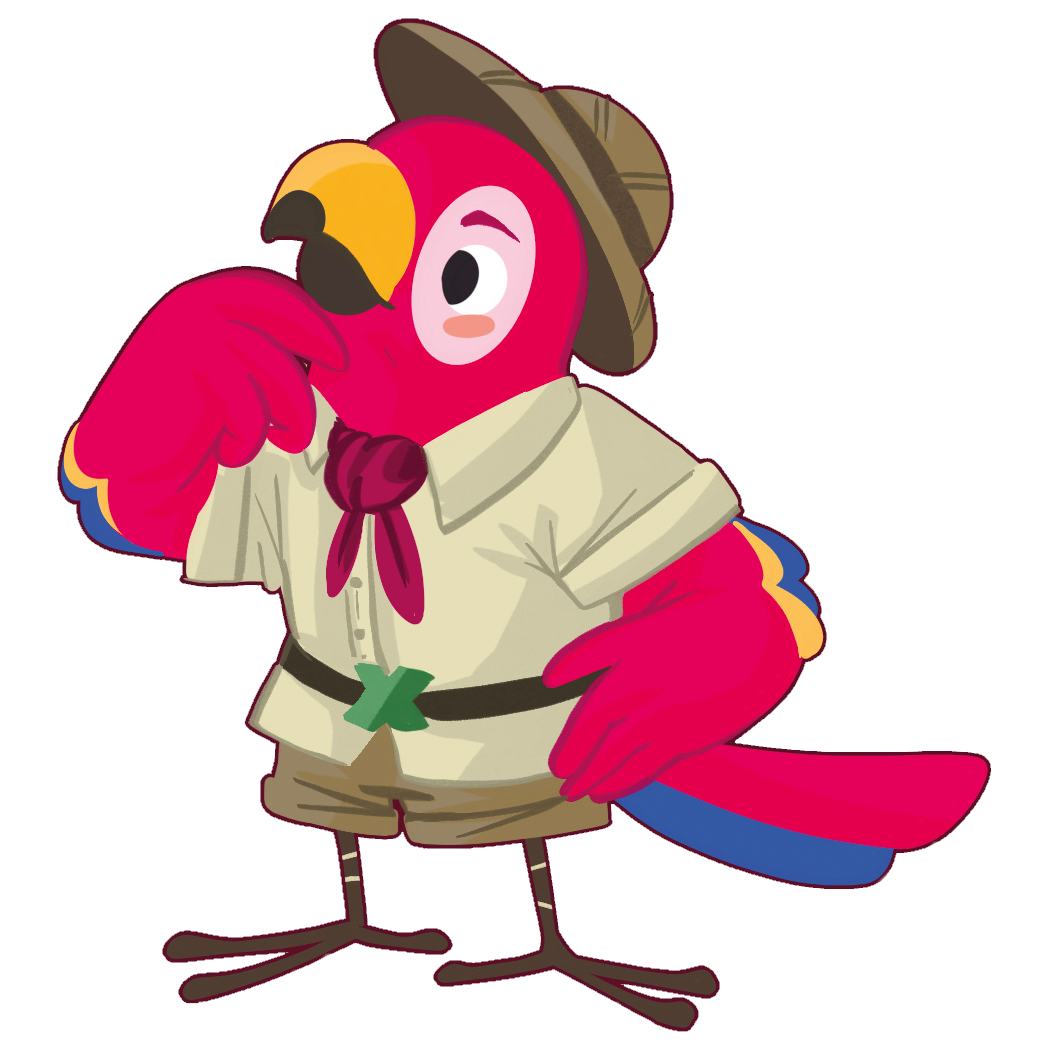
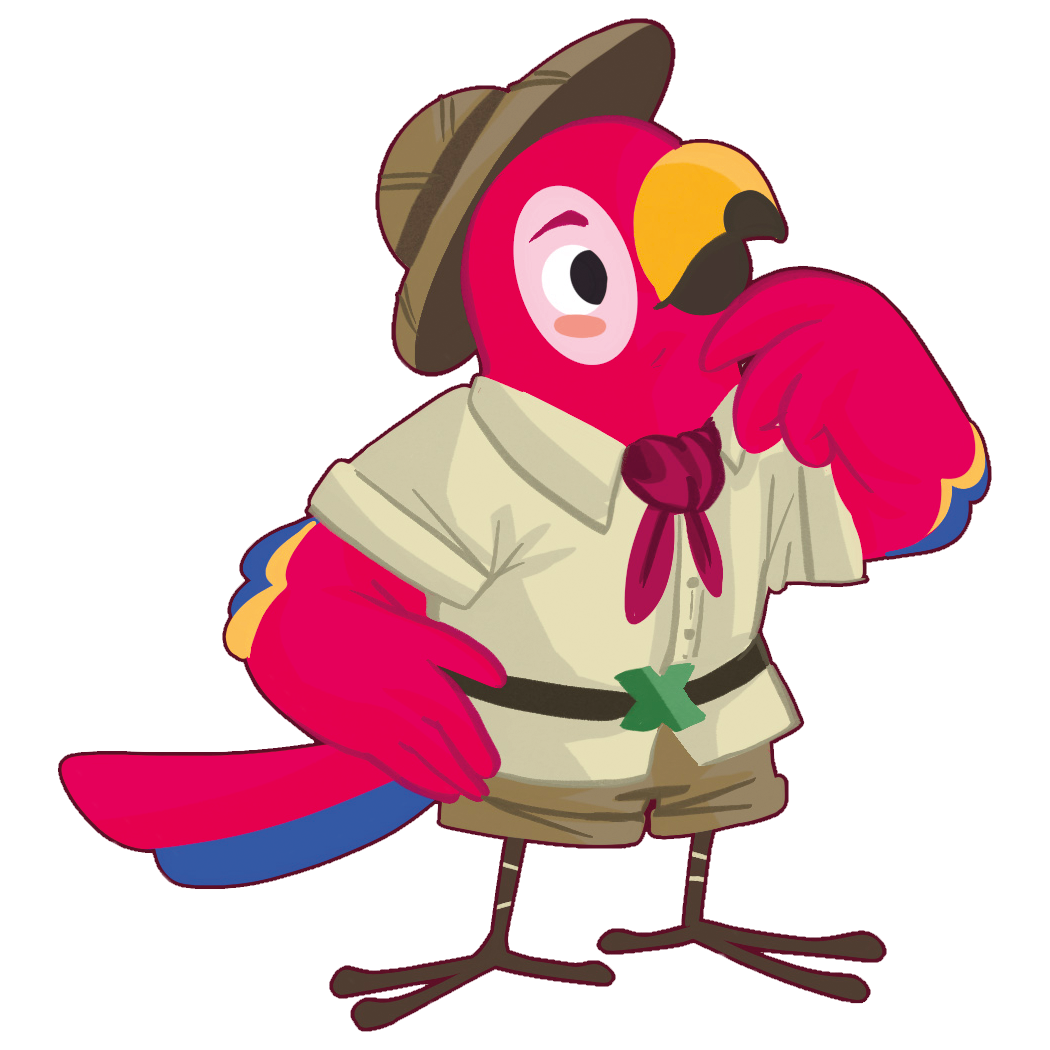
feat(tutorial): mejora animacion tuto, agrega SoundMenu, paso Xecretos previewOnly, mirror tuto4

diff --git a/frontend/src/pages/TutorialArbol.jsx b/frontend/src/pages/TutorialArbol.jsx
@@ -6,6 +6,7 @@ import TreeOfLife from "./TreeOfLife";
 import XperienciasXtop from "@/components/XperienciasXtop";
 import Xelfies from "@/components/xelfies";
 import XecretoRegister from "@/components/XecretoRegister";
+import SoundMenu from "@/components/SoundMenu";
 
 export default function TutorialArbol() {
   const { t } = useTranslation();
@@ -40,6 +41,11 @@ export default function TutorialArbol() {
         zIndex: 50,
         pointerEvents: "none",
       }} />
+
+      {/* ── Botón de sonido — esquina superior derecha ──────────── */}
+      <div className="absolute top-4 right-4" style={{ zIndex: 55, opacity: 0.5, pointerEvents: "none" }}>
+        <SoundMenu />
+      </div>
 
       {/* ════════════════════════════════════════════════════════════
           PASO 0 — Árbol destacado + texto
@@ -529,30 +535,39 @@ export default function TutorialArbol() {
       >
         {/* Guacamaya */}
         <div style={{
-          position: "absolute", bottom: step === 1 ? "-18%" : "-2%",
-          left: 0, right: 0,
-          display: "flex",
-          justifyContent: step === 2 ? "flex-end" : step === 3 ? "flex-start" : "center",
+          position: "absolute", inset: 0,
           pointerEvents: "none", zIndex: 110,
+          overflow: "hidden",
         }}>
           <AnimatePresence mode="wait">
-            <motion.img
+            <motion.div
               key={`tuto${step + 1}`}
-              src={`/img/tuto${step + 1}.png`}
-              alt="Guacamaya"
               initial={{ opacity: 0, y: 50 }}
               animate={{ opacity: 1, y: 0 }}
-              exit={{ opacity: 0, y: -30 }}
+              exit={{ opacity: 0, transition: { duration: 0.25 } }}
               transition={{ duration: 0.5, delay: 0.15 }}
               style={{
+                position: "absolute",
+                bottom: step === 1 ? "-18%" : "-2%",
+                left: 0, right: 0,
+                display: "flex",
+                justifyContent: step === 2 ? "flex-end" : step === 3 ? "flex-start" : "center",
+              }}
+            >
+              <div style={{
                 width: step >= 2 ? "59%" : "80%",
                 maxWidth: step >= 2 ? "252px" : "340px",
-                objectFit: "contain",
                 marginRight: step === 2 ? "-15%" : undefined,
                 marginLeft: step === 3 ? "-15%" : undefined,
                 transform: step === 3 ? "scaleX(-1)" : undefined,
-              }}
-            />
+              }}>
+                <img
+                  src={`/img/tuto${step + 1}.png`}
+                  alt="Guacamaya"
+                  style={{ width: "100%", objectFit: "contain" }}
+                />
+              </div>
+            </motion.div>
           </AnimatePresence>
         </div>
 
